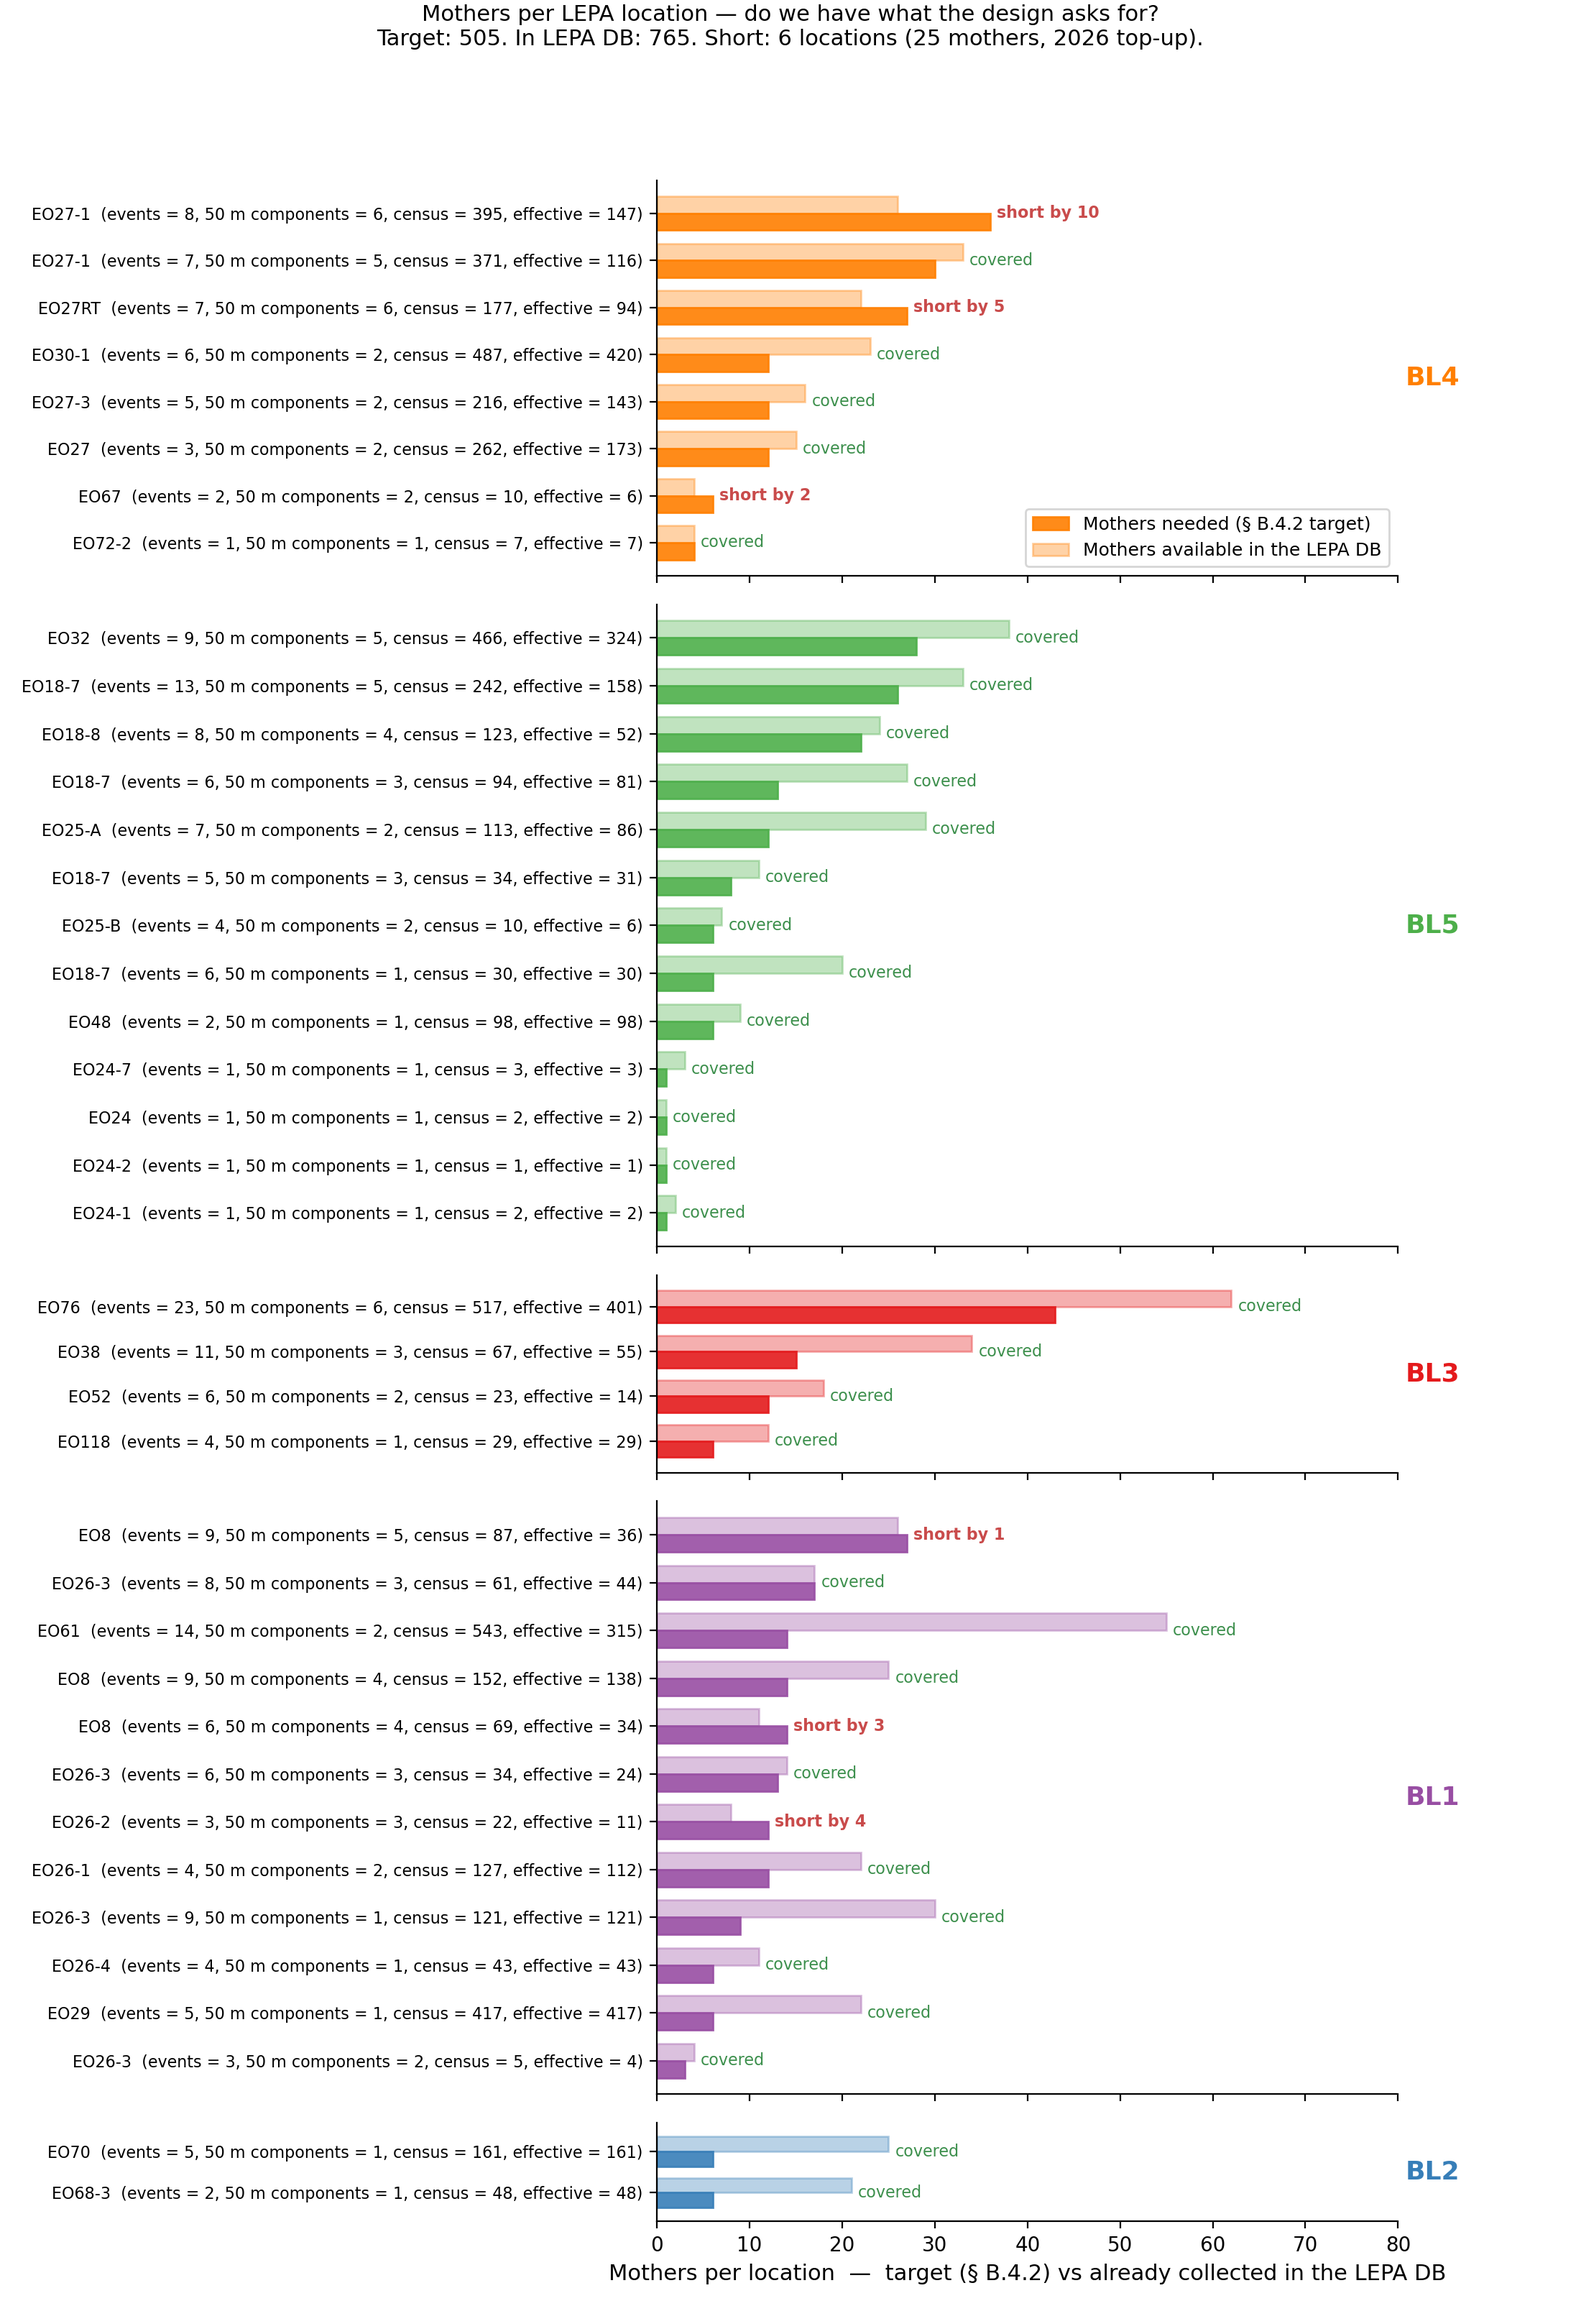
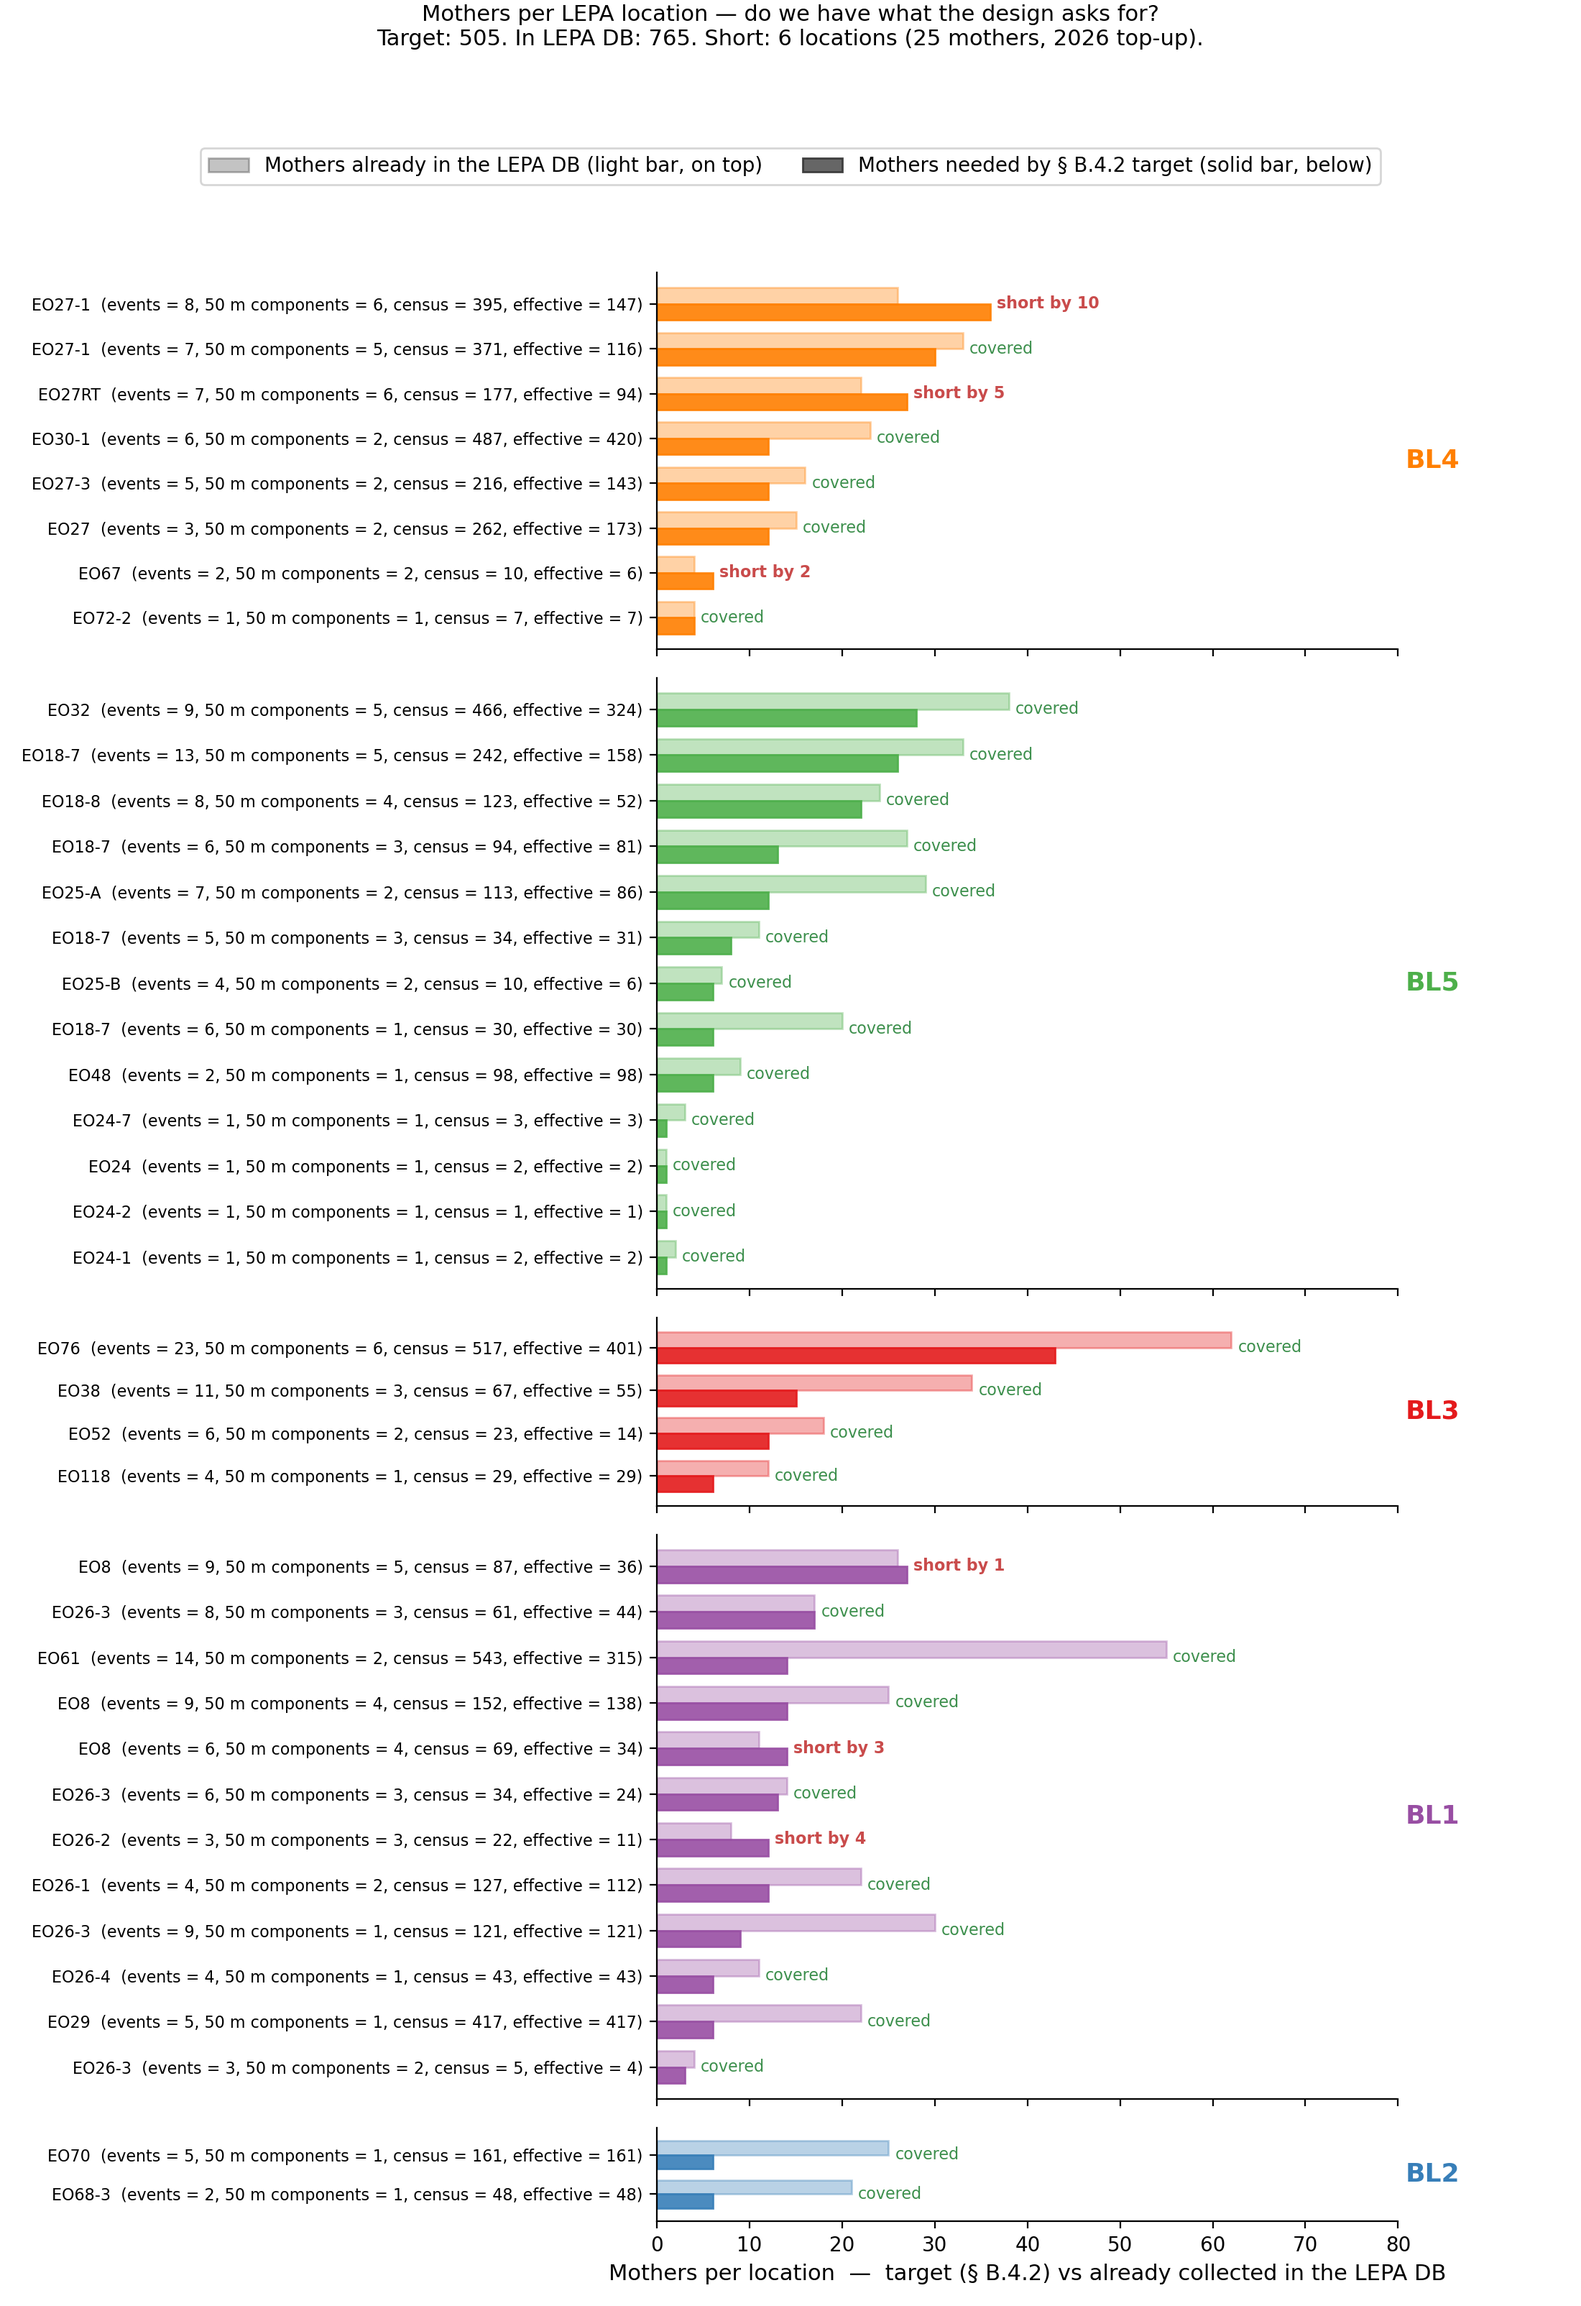
step29c figure: neutral grey legend at figure level, order matches bar layout
Two small readability fixes:

1. Legend was inheriting BL4's orange color because it lived on BL4's
   subplot, making it look like it only applied to that panel. Moved
   the legend to figure level (top-center, above the panels) with
   neutral grey swatches so it clearly applies to every BL.

2. Legend order was 'needed / available' but the visual bar layout
   in each row is 'available on top, needed below'. Flipped the
   legend order to match the spatial layout so a reader can look
   at either the bar or the legend and get the same top-to-bottom
   answer.

diff --git a/Scripts/step29c_fragmentation_aware_sampling.py b/Scripts/step29c_fragmentation_aware_sampling.py
@@ -323,13 +323,14 @@ def plot_comparison(loc_df: pd.DataFrame, out_png: Path, out_pdf: Path):
         colour = palette[bl]
         h = 0.36
         # Solid bar — fragmentation-aware design target (M_frag).
+        # Visually appears BELOW the light bar because barh with y - h/2
+        # sits on the lower half of each row.
         ax.barh(y - h/2, sub["M_frag_aware"], h, color=colour, alpha=0.9,
-                edgecolor=colour, linewidth=1.0,
-                label="Mothers needed (§ B.4.2 target)")
+                edgecolor=colour, linewidth=1.0)
         # Light bar — mothers already collected and stored in the LEPA DB.
+        # Appears ABOVE the solid bar in each row.
         ax.barh(y + h/2, sub["n_mothers_available_in_DB"], h,
-                color=colour, alpha=0.35, edgecolor=colour, linewidth=1.0,
-                label="Mothers available in the LEPA DB")
+                color=colour, alpha=0.35, edgecolor=colour, linewidth=1.0)
         # Row label: locationCode + spatial context matching Figure 2b.
         share = sub.get("largest_component_share_50m",
                         pd.Series([1.0] * len(sub))).fillna(1.0)
@@ -361,10 +362,19 @@ def plot_comparison(loc_df: pd.DataFrame, out_png: Path, out_pdf: Path):
         ax.text(1.01, 0.5, bl, transform=ax.transAxes,
                 fontsize=13, fontweight="bold", color=colour,
                 va="center", ha="left")
-        if bl == bls[0]:
-            ax.legend(loc="lower right", fontsize=9, frameon=True)
         ax.spines["top"].set_visible(False)
         ax.spines["right"].set_visible(False)
+
+    # Figure-level legend with neutral grey handles so it doesn't look
+    # BL-specific. Order matches the visual top-to-bottom layout in
+    # each row: light 'available' bar on top, solid 'needed' bar below.
+    from matplotlib.patches import Patch
+    legend_handles = [
+        Patch(facecolor="#555555", alpha=0.35, edgecolor="#333",
+              label="Mothers already in the LEPA DB (light bar, on top)"),
+        Patch(facecolor="#555555", alpha=0.9, edgecolor="#333",
+              label="Mothers needed by § B.4.2 target (solid bar, below)"),
+    ]
     xmax = float(max(loc_df["M_frag_aware"].max(),
                      loc_df["n_mothers_available_in_DB"].max()))
     axes[-1].set_xlim(0, xmax + 18)
@@ -382,7 +392,10 @@ def plot_comparison(loc_df: pd.DataFrame, out_png: Path, out_pdf: Path):
         f"Short: {n_short_loc} locations ({total_short} mothers, "
         f"2026 top-up).",
         fontsize=11, y=0.998)
-    fig.tight_layout(rect=[0, 0, 0.94, 0.96])
+    fig.legend(handles=legend_handles, loc="upper center",
+                bbox_to_anchor=(0.5, 0.94), ncol=2,
+                fontsize=10, frameon=True)
+    fig.tight_layout(rect=[0, 0, 0.94, 0.92])
     fig.savefig(out_png, dpi=200); fig.savefig(out_pdf); plt.close(fig)
 
 
